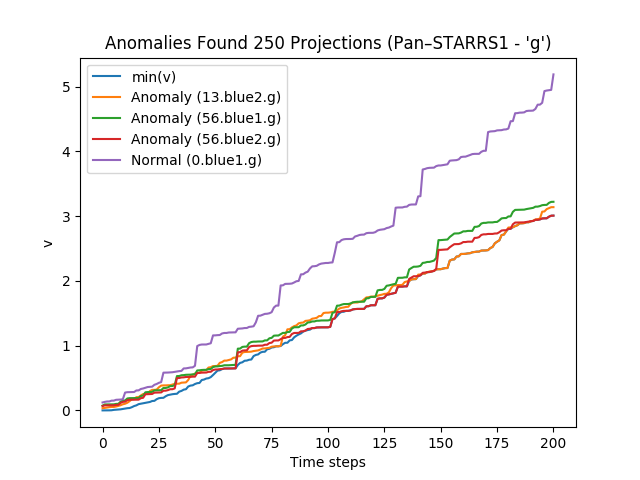
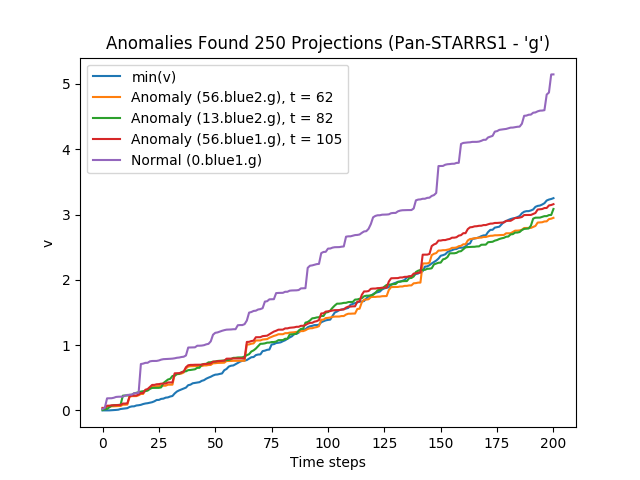
Updated projections results

diff --git a/report/sections/case-study/results.tex b/report/sections/case-study/results.tex
@@ -31,7 +31,7 @@ As seen in table \ref{table:case-study:intro:datasets-mapping}, some \panstarrs 
 
 A naive solution for the requirements of the \vasco project would simply randomly attempt to find the anomalies in the $\beta$--pack. Since there are a total of $5005$ observations in the $\beta$--pack, a random recommender system would recommend an item with probability of $1/5005 = 0.0002$. Furthermore, the \mlblink algorithm will be tested by executing it for $200$ time steps. A random recommender system that is ran $200$ times, with the goal of finding $7$ anomalies in a dataset of $5005$ observations would be expected to find $7 \times 1/5005 \times 200 = 0.27$ anomalies. \newline
 
-Figure \ref{fig:evaluation:roc-curve} shows the ROC curve created by running the \mlblink algorithm for 200 time steps. The image vectors were reduced to 250 projections, and the binarization settings for \usno and \panstarrs were 60 and 220 respectively. These parameters were adjusted using trial and error by analyzing the results of the ROC curve, AUC, and the number of anomalies found during the experiments. While there is some randomization involved in the algorithm, with the parameters previously specified the results are easily reproducible: the \mlblink algorithm consistently achieves an AUC around $0.70$, and finds 3 or 4 anomalies out of 7. In the experiment shown in figure \ref{fig:evaluation:roc-curve}, the \mlblink algorithm found 3/7 anomalies, and achieved the best $\text{AUC} = 0.77$ at $t = 100$ and $t = 200$. \newline
+Figure \ref{fig:evaluation:roc-curve} shows the ROC curve created by running the \mlblink algorithm for 200 time steps. The image vectors were reduced to 250 projections, and the binarization settings for \usno and \panstarrs were 60 and 220 respectively. These parameters were adjusted using trial and error by analyzing the results of the ROC curve, AUC, and the number of anomalies found during the specified number of time steps in the experiments. While there is some randomization involved in the algorithm, with the parameters previously specified the results are easily reproducible: the \mlblink algorithm consistently achieves an AUC around $0.70$, and finds 2 up to 4 anomalies out of 7. In the experiment shown in figure \ref{fig:evaluation:roc-curve}, the \mlblink algorithm found 3/7 anomalies, and achieved the best $\text{AUC} = 0.77$ at $t = 100$. \newline
 
 \begin{figure}
   \centering
@@ -43,9 +43,9 @@ Figure \ref{fig:evaluation:roc-curve} shows the ROC curve created by running the
   \label{fig:evaluation:roc-curve}
 \end{figure}
 
-As explained in section \ref{sect:meth:evaluation}, the discrimination threshold used to create the ROC curve is ``sweeping'' the entire range of $v$ values from $\min(v)$ up to $\max(v)$ in a time step $t$. It is thus reasonable that for all time steps, the ROC curve in figure \ref{fig:evaluation:roc-curve} starts with an ascend (i.e. more true positives) since the $v$ value is small and we expect more anomalies to evaluate to a $v$ value in that range. On the other hand, as the discrimination threshold is increased, the false positives rate starts to catch up and eventually dominates the ROC curve. The \mlblink algorithm was consistently able to find the first 3 or 4 anomalies listed in table \ref{table:results:anomalies-list}, but it could not find the last 3 - even when more time steps were used in the evaluation. This is also why the ROC curve in figure \ref{fig:evaluation:roc-curve} has three ``steps'' before reaching a $\text{TPR} = 1.0$; these three steps are the 3 anomalies that the \mlblink algorithm is unable to find because their $v$ value is too large. \newline
+As explained in section \ref{sect:meth:evaluation}, the discrimination threshold used to create the ROC curve is ``sweeping'' the entire range of $v$ values from $\min(v)$ up to $\max(v)$ in a time step $t$. It is thus reasonable that for all time steps, the ROC curve in figure \ref{fig:evaluation:roc-curve} starts with an ascend (i.e. more true positives) since the $v$ value is small and we expect more anomalies to evaluate to a $v$ value in that range. On the other hand, as the discrimination threshold is increased, the false positives rate starts to catch up and eventually dominates the ROC curve. The \mlblink algorithm was consistently able to find the first 2 or 4 anomalies listed in table \ref{table:results:anomalies-list}, but it could not find the last 3 - even when more time steps were used in the evaluation. This is also why the ROC curve in figure \ref{fig:evaluation:roc-curve} has three ``steps'' before reaching a $\text{TPR} = 1.0$; these three steps are the 3 anomalies that the \mlblink algorithm is unable to find because their $v$ value is too large. \newline
 
-Figure \ref{fig:evaluation:v-versus-t:found} shows how the $v$ value of known anomalies that were found versus normal observations changes as the \mlblink algorithm is taught over time. Additionally, the figure includes the $\min(v)$ value at each time step. As expected, the $v$ value of the known anomalies is close to the $\min(v)$ value of each time step, while the normal observations result in a larger $v$ value. Note the $v$ value of an anomaly might be smaller than the $\min(v)$ of a time step only after it has been found. The reason for this is that once an anomaly is found, it is filtered out of the potential candidates to be crawled, otherwise the \mlblink algorithm will continue to recommend it. In this scenario, the $v$ value of an anomaly after it has been found was computed for illustrative purposes only. The anomalies in figure \ref{fig:evaluation:v-versus-t:found} were found in the following order: \texttt{56.blue2.g} in $t = 63$, \texttt{56.blue1.g} at $t = 146$, and finally \texttt{13.blue2.g} in $t = 154$. \newline
+Figure \ref{fig:evaluation:v-versus-t:found} shows how the $v$ value of known anomalies that were found versus a normal observation changes as the \mlblink algorithm is taught over time. Additionally, the figure includes the $\min(v)$ value at each time step. As expected, the $v$ value of the known anomalies is close to the $\min(v)$ value of each time step, while the normal observation results in a larger $v$ value. Note the $v$ value of an anomaly might be smaller than the $\min(v)$ of a time step only after it has been found. The reason for this is that once an anomaly is found, it is filtered out of the potential candidates to be crawled, otherwise the \mlblink algorithm will continue to recommend it. In this scenario, the $v$ value of an anomaly after it has been found was computed for illustrative purposes only. The anomalies in figure \ref{fig:evaluation:v-versus-t:found} were found in the following order: \texttt{13.blue2.g} in $t = 110$, \texttt{56.blue2.g} at $t = 158$, and finally \texttt{56.blue1.g} in $t = 189$. \newline
 
 \begin{figure}
   \centering
@@ -57,7 +57,7 @@ Figure \ref{fig:evaluation:v-versus-t:found} shows how the $v$ value of known an
   \label{fig:evaluation:v-versus-t:found}
 \end{figure}
 
-The same graph is shown in figure \ref{fig:evaluation:v-versus-t:not-found}, but this time it shows the anomalies the \mlblink algorithm could not find. Except for the \texttt{13.blue1.g} anomaly, the results are the opposite of what is expected, since the $v$ value of the anomalies is closer to the normal observations than it is to the $\min(v)$ value at each time step. \newline
+The same plot is shown in figure \ref{fig:evaluation:v-versus-t:not-found}, but this time it shows the anomalies the \mlblink algorithm could not find. Except for anomaly \texttt{13.blue1.g}, the results are the opposite of what is expected, since the $v$ value of the anomalies is closer to the normal observation than it is to the $\min(v)$ value at each time step. \newline
 
 \begin{figure}
   \centering
@@ -73,7 +73,7 @@ The common denominator of the 4 anomalies the \mlblink algorithm evaluated to be
 
 %%%%%%%%%%%% PanSTARR band g %%%%%%%%%%%%
 
-Figure \ref{fig:evaluation:roc:panstarrs:g} shows the ROC and AUC achieved by \mlblink when evaluating the \panstarrs color--band \texttt{g} in isolation. As expected, \mlblink does very well, consistently achieving an AUC of at least $0.90$ for all time steps shown in the plot. It found $3$ out of $4$ anomalies in the following order: \texttt{56.blue2.g} in $t = 55$, \texttt{13.blue2.g} at $t = 78$, and \texttt{56.blue1.g} in $t = 100$. Figure \ref{fig:evaluation:found:panstarrs:g} shows the evaluation of the $v$ value of known anomalies (that were found when testing \panstarrs color--band \texttt{g} in isolation) versus a normal observation. Once again, as expected, the plot shows \mlblink consistently evaluates the $v$ value of known anomalies to be significantly smaller than that of a normal observation.
+Figure \ref{fig:evaluation:roc:panstarrs:g} shows the ROC and AUC achieved by \mlblink when evaluating the \panstarrs color--band \texttt{g} in isolation. As expected, \mlblink does very well, consistently achieving an AUC of at least $0.90$ for all time steps shown in the plot. It found $3$ out of $4$ anomalies in the following order: \texttt{56.blue2.g} in $t = 62$, \texttt{13.blue2.g} at $t = 82$, and \texttt{56.blue1.g} in $t = 105$. Figure \ref{fig:evaluation:found:panstarrs:g} shows the evaluation of the $v$ value of known anomalies (that were found when testing \panstarrs color--band \texttt{g} in isolation) versus a normal observation. Once again, as expected, the plot shows \mlblink consistently evaluates the $v$ value of known anomalies to be significantly smaller than that of a normal observation.
 
 \begin{figure}[H]
   \centering
@@ -97,7 +97,7 @@ Figure \ref{fig:evaluation:roc:panstarrs:g} shows the ROC and AUC achieved by \m
 
 %%%%%%%%%%%% PanSTARR band r %%%%%%%%%%%%
 
-Figure \ref{fig:evaluation:roc:panstarrs:r} shows the ROC and AUC of the evaluation of the \panstarrs \texttt{r} band in isolation. The results achieved are quite poor: it does not find any anomalies (out of $2$), and achieves an AUC in the $0.5$ range (essentially equivalent to randomly determining the label of an observation). Figure \ref{fig:evaluation:not-found:panstarrs:r} shows the \mlblink algorithm evaluates the anomalies in the dataset as if these were normal observations (their $v$ values are closer to that of a normal observation than to the $\min(v)$ of any time step).
+Figure \ref{fig:evaluation:roc:panstarrs:r} shows the ROC and AUC of the evaluation of the \panstarrs \texttt{r} band in isolation. The results achieved are quite poor: it does not find any anomalies (out of $2$), and achieves an AUC in the $0.5$ range (essentially equivalent to randomly determining the label of a randomly chosen observation). Figure \ref{fig:evaluation:not-found:panstarrs:r} shows the \mlblink algorithm evaluates the anomalies in the dataset as if these were normal observations (their $v$ values are closer to that of a normal observation than to the $\min(v)$ of any time step).
 
 \begin{figure}[H]
   \centering
@@ -114,7 +114,7 @@ Figure \ref{fig:evaluation:roc:panstarrs:r} shows the ROC and AUC of the evaluat
   \includegraphics[
         width=0.7\textwidth,
         keepaspectratio
-  ]{report/images/results/250_panstarr_r/not_found_250_panstarr_r_0_anomalies_t_200.png}
+  ]{report/images/results/250_panstarr_r/not_found_250_panstarr_r_2_anomalies_t_200.png}
   \caption{Evaluation of known anomalies that were not found by the \mlblink algorithm when evaluating the \panstarrs color--band \texttt{r} (versus \usno color--bands \texttt{red1} and \texttt{red2}) in isolation using 250 projections for dimensionality reduction.}
   \label{fig:evaluation:not-found:panstarrs:r}
 \end{figure}
@@ -138,7 +138,7 @@ The results of the evaluation of \panstarrs color--band \texttt{z} are shown in 
   \includegraphics[
         width=0.7\textwidth,
         keepaspectratio
-  ]{report/images/results/250_panstarr_z/not_found_250_panstarr_z_0_anomalies_t_200.png}
+  ]{report/images/results/250_panstarr_z/not_found_250_panstarr_z_1_anomalies_t_200.png}
   \caption{Evaluation of known anomalies that were not found by the \mlblink algorithm when evaluating the \panstarrs color--band \texttt{z} (versus \usno color--bands \texttt{ir}) in isolation using 250 projections for dimensionality reduction.}
   \label{fig:evaluation:not-found:panstarrs:z}
 \end{figure}
